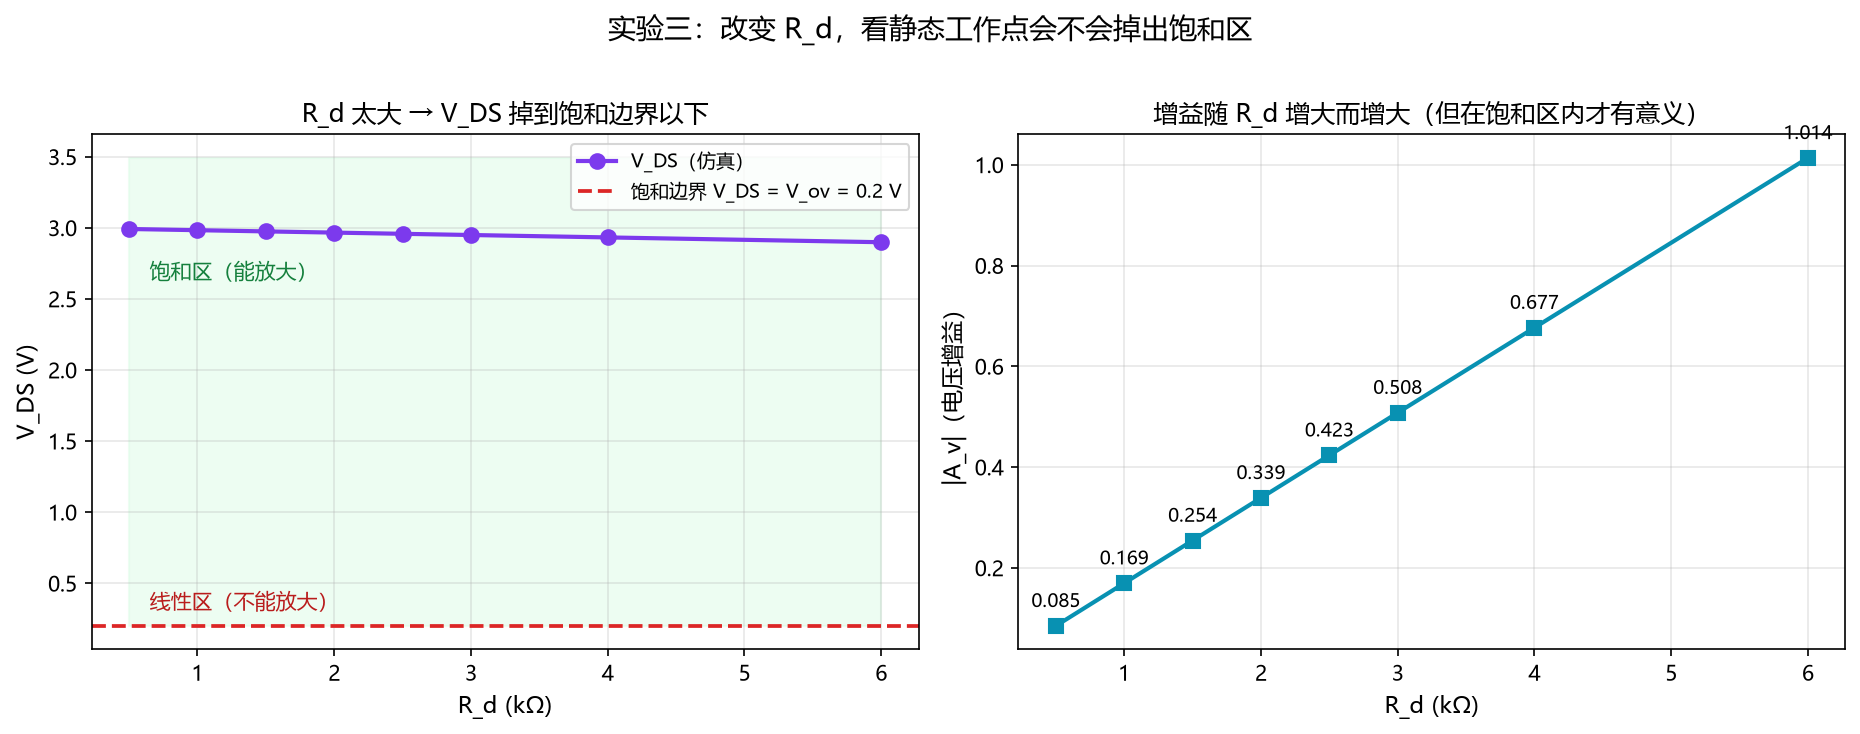
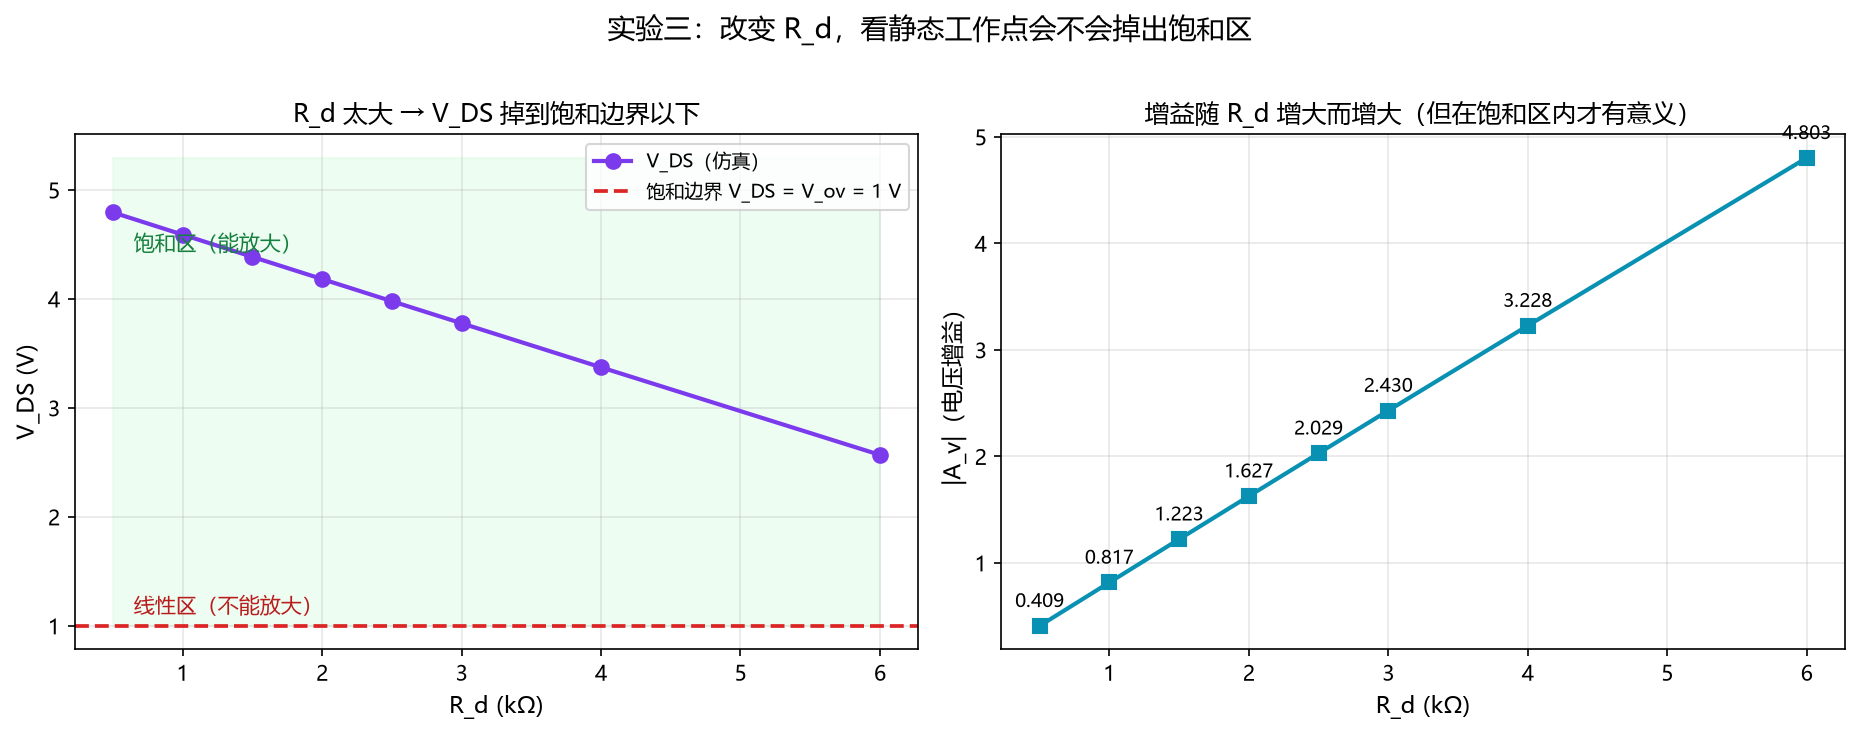
实验区：六个实验总结（从仿真可信度到设计权衡的完整知识线）

diff --git a/experiments/parameter_explorer.py b/experiments/parameter_explorer.py
@@ -214,9 +214,9 @@ def exp3_nmos():
     print("        V_th = 1 V，λ = 0.02 /V        变量：R_d")
     print()
 
-    VDD = 3.0
+    VDD = 5.0
     RG1, RG2 = 60.0, 40.0
-    K, VTH, LAM = 0.8e-3, 1.0, 0.02
+    K, VTH, LAM = 0.8e-3, 1.0, 0.005
     VG = VDD * RG2 / (RG1 + RG2)      # = 2 V
     VOV = VG - VTH                     # = 1 V
 

diff --git a/experiments/README.md b/experiments/README.md
@@ -885,6 +885,130 @@ V_ov 只剩 0.2 V，而 V_th = 1 V
 
 ---
 
+
+---
+
+# 🏆 六个实验总结
+
+从「改一个参数看结果怎么变」出发，六轮实验走下来，其实串成了一条完整的线：
+
+**仿真的可信度 → 电路的不变量 → 设计的权衡 → 物理的本质**
+
+## 📋 六个实验一览
+
+| # | 改了什么 | 最核心的发现 | 属于哪一类 |
+| --- | --- | --- | --- |
+| **1** | RC：R 扩大到 500 倍 | 误差**只取决于 fc 落在扫频网格的位置**，和 R 大小无关 | 🔬 仿真的可信度 |
+| **2** | RC：C 加大 10 倍 | 抓到 **2 个真实的坑**：参数硬编码、扫频范围没盖住 fc | 🔬 仿真的可信度 |
+| **3** | 戴维南：R2 扫到 1000 kΩ | `I_sc` **完全不受 R2 影响**（R2 被约掉）；差距按 1/R2 收敛 | 📐 电路的不变量 |
+| **4** | NMOS：K 翻倍 | 增益 ×1.94，但**临界 R_d 减半**（9.8→4.9 kΩ） | ⚖ 设计的权衡 |
+| **5** | NMOS：V_DD 降到 3 V | 临界 R_d **暴涨 17.8 倍**（9.8→174 kΩ），但增益掉到 **0.34（衰减器）** | ⚖ 设计的权衡 |
+| **6** | NMOS：λ 减小到 0.005 | `I_D` 的变化幅度 **∝ λ**（1.10 % : 4.4 % : 9.8 % : 17.7 %） | 🔍 物理的本质 |
+
+## 🔬 第一类：仿真的可信度（实验 1、2）
+
+**做仿真要问的第一个问题不是"结果对不对"，而是"这个结果可不可信"。**
+
+### 误差来自哪里？
+
+| 来源 | 表现 | 怎么查 |
+| --- | --- | --- |
+| **离散化** | 误差 0.x %，**加密点数后变小** | 把 `number_of_points` 加密一倍再跑 |
+| **范围不够** | 误差突然变成 100 % 以上，甚至 −3dB 点落在边界 | 检查 fc 是否在扫频区间内 |
+| **参数没传进去** | 改了参数**结果一点没变** | 改一个参数看结果有没有动 |
+
+### 最漂亮的一个发现
+
+**误差 0.42 % / 0.65 % 交替出现**，追踪下去发现：
+
+```
+0.1 / 1 / 10 kΩ  ——  正好相差 10 倍 = 整数个十倍频程
+                  →  在扫频网格上落在完全相同的相对位置
+                  →  误差也一样（0.42 %）
+```
+
+**结论**：**误差和"取多大的 R"完全无关，只取决于"fc 落在网格的哪个位置"**。
+
+> 💡 **这也说明了**：把参数**按 10 倍等比变化**时，很多数值特性会**重复出现** —— 因为对数坐标下它们是同一位置。
+
+## 📐 第二类：电路的不变量（实验 3）
+
+**有些量，你把参数改翻天它也不动。**
+
+| 不变量 | 表达式 | 验证范围 |
+| --- | --- | --- |
+| **短路电流** `I_sc` | `V1/R1`（与 R2 无关） | R2 从 1 kΩ 到 1000 kΩ，**纹丝不动** |
+
+**推导**：
+
+```
+I_sc = V_th / R_th = [V1·R2/(R1+R2)] ÷ [R1·R2/(R1+R2)] = V1/R1
+```
+
+**为什么值得记住**：**这种"被约掉"的参数，说明它对这个量没有物理影响** —— 理解这一点，能帮你看穿一大堆看似复杂的公式。
+
+**同类的还有**：`fc = 1/(2πRC)` 里的 τ = RC —— R 和 C 谁大谁小不重要，**只看乘积**。
+
+## ⚖ 第三类：设计的权衡（实验 4、5）
+
+**这是模拟电路设计最核心的一课。**
+
+| 改什么 | 增益 | 工作余量 | 临界 R_d |
+| --- | --- | --- | --- |
+| **R_d 增大** | ⬆ | ⬇ | — |
+| **V_DD 提高**（5→8） | ⬆ | ⬆ | ⬇ 9.8→2.9 kΩ |
+| **K 增大**（×2） | ⬆ ×1.94 | ⬇ | ⬇ 9.8→4.9 kΩ |
+| **V_DD 降低**（5→3） | ⬇ **÷5** | ⬆ | ⬆ 9.8→174 kΩ |
+| **λ 减小** | 略 ⬆（大 R_d 时明显） | — | — |
+
+### 一句话结论
+
+> **增益和工作余量几乎永远是「此消彼长」。**
+> 唯一的例外是**减小 λ** —— 它抬高的是**天花板本身**（本征增益 `g_m·r_o`），不需要牺牲别的。
+
+### 一个反面教材（实验 5）
+
+**V_DD 降到 3 V** 看起来"余量变大了"（临界 R_d 从 9.8 kΩ 涨到 174 kΩ），但**增益掉到 0.34** —— **输出比输入还小，这已经不是放大器了**。
+
+**更糟的是工作点极不稳定**：`V_ov` 只剩 0.2 V，`V_G` 漂移 0.1 V 就会让电流变化 4 倍。
+
+> **教训**：**设计不能只看单一指标**。"余量大"不代表"电路好" —— 要同时看增益、稳定性、灵敏度。
+
+## 🔍 第四类：物理的本质（实验 6）
+
+**λ 到底是什么？四个数据点给出答案**：
+
+| λ | `I_D` 随 R_d 的变化幅度 |
+| --- | --- |
+| 0.005 | **1.10 %** |
+| 0.02 | **4.4 %** |
+| 0.05 | **9.8 %** |
+| 0.1 | **17.7 %** |
+
+**比值几乎完全成正比** → **λ 的物理含义就是「电流对 V_DS 的敏感度」**：
+
+| λ | 管子表现得像 |
+| --- | --- |
+| 很小（0.005） | **理想恒流源** —— 电流几乎不随 V_DS 变 |
+| 中等（0.02） | 还不错的电流源 |
+| 很大（0.1） | 更像个**电阻** —— 电流跟着电压走 |
+
+**在 IC 设计里**：λ ∝ 1/L，所以**加长沟道 L 就能减小 λ**，让管子更像理想电流源，从而抬高本征增益上限。
+
+## 🎓 最后：这几轮实验教给我们的**方法论**
+
+| 原则 | 具体做法 |
+| --- | --- |
+| **一次只改一个** | 改了 K 就把 K 固定住，下一轮只动 λ；每天开始前先确认"基准是什么" |
+| **改完先看"变没变"** | 改了参数结果一点没变 → **先怀疑参数没传进去**，而不是怀疑物理 |
+| **和理论对着看** | 误差 0.x % 时先算一算"是不是离散化"，别急着怀疑公式 |
+| **找规律而不是找答案** | 不要只问"这次是多少"，要问"**改变参数时它是怎么变的**" |
+| **保留记录** | 每轮的参数、结果、结论都写下来 —— 不然三轮之后就记不清基准是什么了 |
+
+> **这六轮真正的收获，不是六个结论，而是"怎么用仿真去理解一个电路"的这套流程。**
+
+---
+
 ## 📌 和作业的关系
 
 这个目录是**课外探索**，作业的提交内容是：
